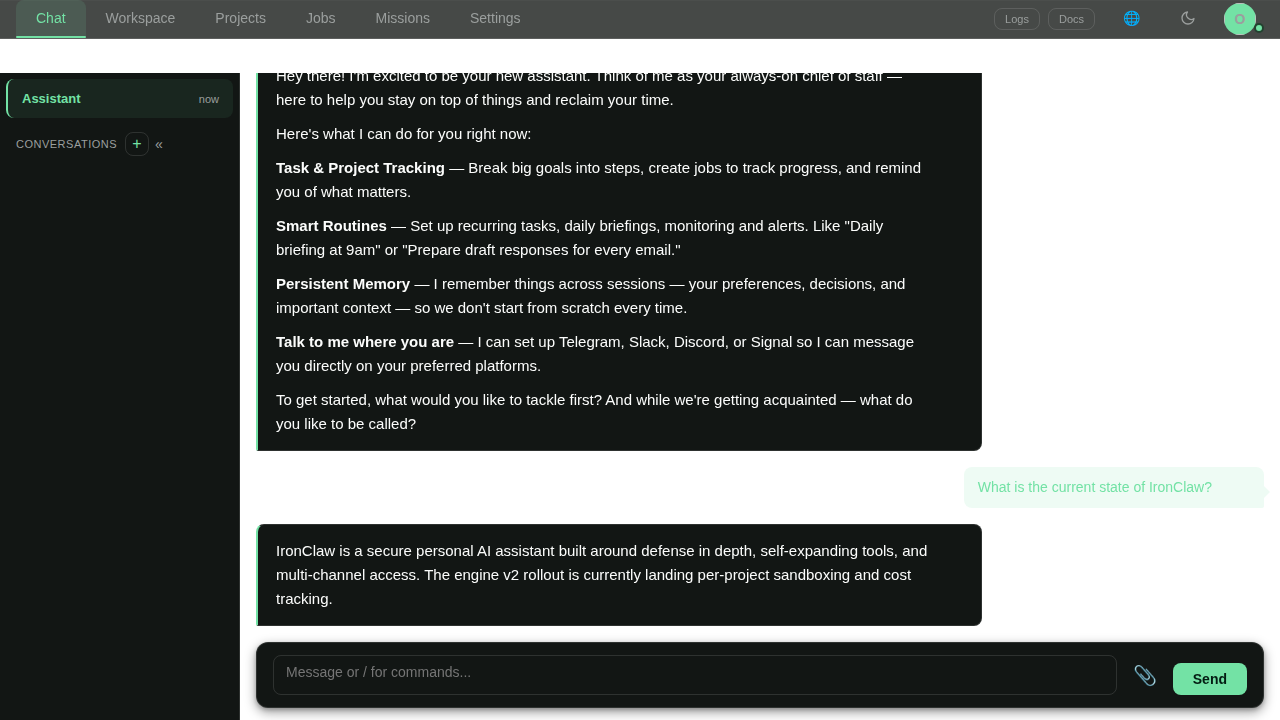
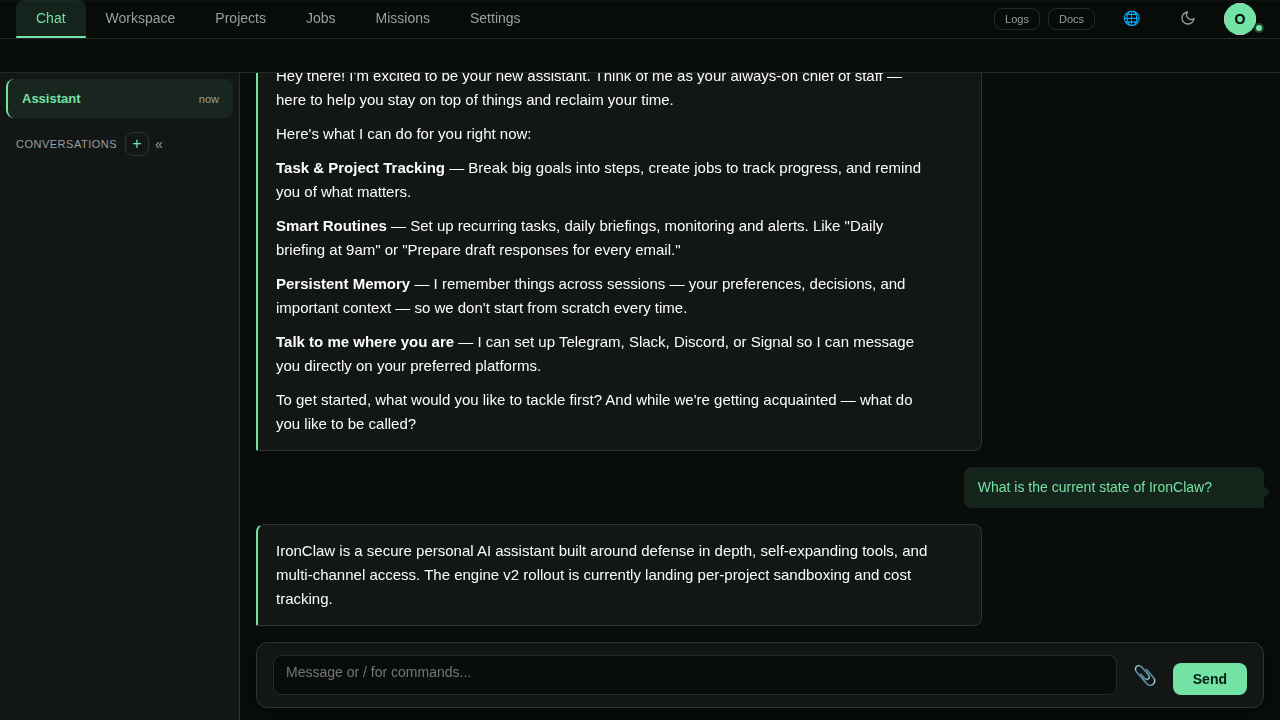
fix(gateway): unclosed comment in theme.css dropped --bg token in dark mode
theme.css had a legacy-tokens comment block containing the glob pattern
`styles/**/*.css`. Chrome's CSS parser matches `*/` inside the `**/` +
`*` + `.` sequence, closing the comment prematurely. Error recovery
then swallowed the very next declaration — `--bg: var(--color-bg);` —
which left body background resolving to `transparent` and every surface
falling through to the browser's default white.

Side effect: the initial Phase A screenshots in
`docs/design-system/phase-a/after/` showed the broken state, which
looked like a palette issue but was actually a parser issue.

Fix: rewrite the comment body to drop the glob, add a warning note so
the pattern doesn't regress, and re-capture the "after" screenshots.

Verified: `getComputedStyle(documentElement).getPropertyValue('--bg')`
now returns `#080c0a` in dark mode and `#fcfdfc` in light mode;
`document.body.style.backgroundColor` follows through. Every surface
now renders on the intended dark background.

Regression guard added in the comment itself — CI would catch a
recurrence via the updated screenshots on the next design-system PR.

diff --git a/crates/ironclaw_gateway/static/theme.css b/crates/ironclaw_gateway/static/theme.css
@@ -170,7 +170,13 @@
    * the 20 split surface stylesheets under `styles/`. Each one is
    * now an alias onto a scale step or role token above, so touching
    * the palette here instantly reskins the whole app without
-   * changing a single line in `styles/**/*.css`.
+   * changing a single line in any surface stylesheet.
+   *
+   * NOTE: do not write "<>/<star><star>/<star>.css" inside a CSS
+   * comment — the embedded `<star>/` sequence closes the comment
+   * early and the following declarations get dropped. (This file
+   * was bitten by exactly that once — keep glob patterns out of
+   * comment bodies.)
    * =========================================================== */
   --bg:                    var(--color-bg);
   --bg-secondary:          var(--color-surface);
